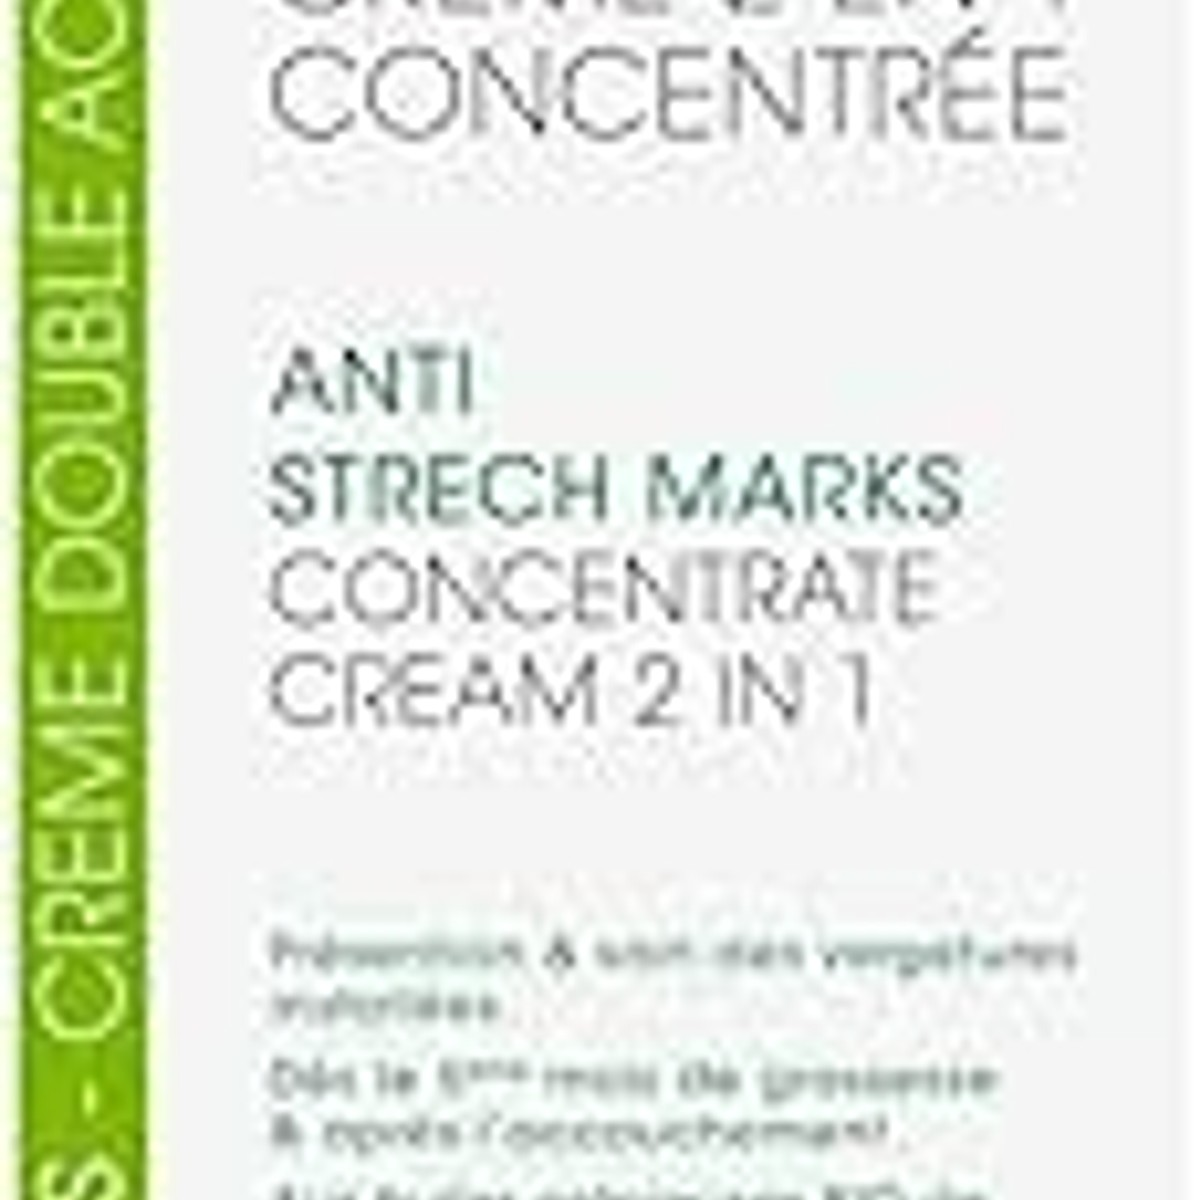
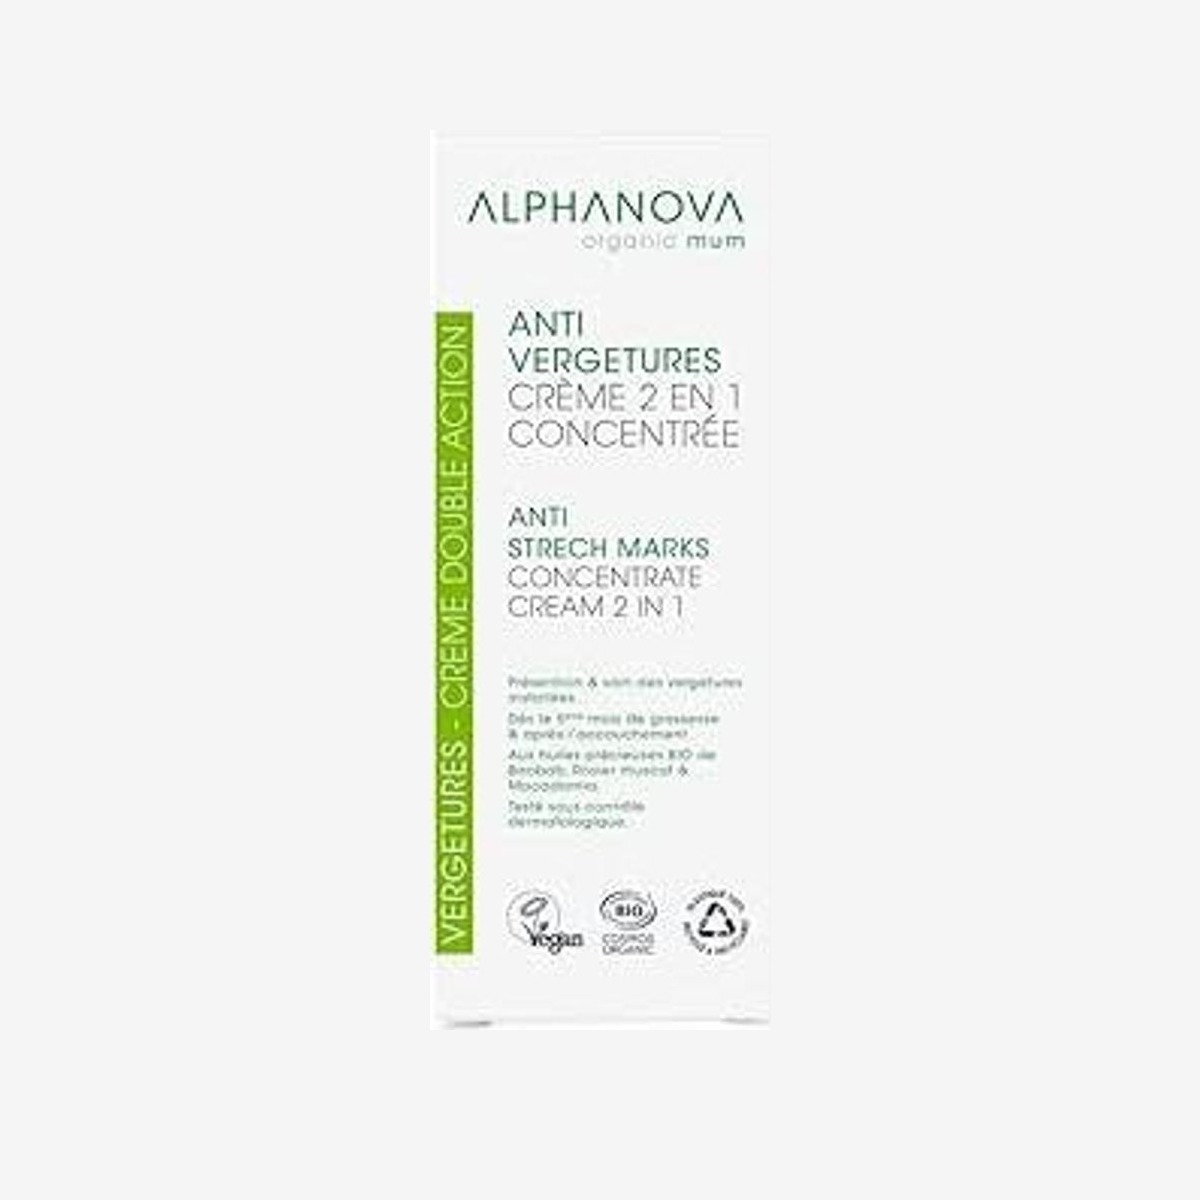
improve product image auto crop v3

diff --git a/scripts/add-product.js b/scripts/add-product.js
@@ -54,7 +54,7 @@ function guessCategory(name = "") {
 
   if (/(wallet|bag|watch|fashion|shirt|shoe|hoodie|sneaker|jacket)/.test(n)) return "Fashion";
   if (/(earbud|headphone|keyboard|charger|phone|tech|usb|powerbank|wireless|portable)/.test(n)) return "Tech";
-  if (/(serum|skin|beauty|cream|hair|makeup|cosmetic|skincare)/.test(n)) return "Beauty";
+  if (/(serum|skin|beauty|cream|hair|makeup|cosmetic|skincare|gel|cleanser|lotion)/.test(n)) return "Beauty";
   if (/(fitness|gym|band|roller|sport|abs|yoga|muscle)/.test(n)) return "Fitness";
   if (/(home|kitchen|decor|lamp|light|desk|chair|organizer)/.test(n)) return "Home";
   if (/(cat|dog|pet|animal|arbre a chat|arbre à chat|litter|hamster)/.test(n)) return "Home";
@@ -148,7 +148,6 @@ async function ensureGoodImageUrl(imageUrl, pageUrl) {
   if (!candidate || isSuspiciousImageUrl(candidate)) {
     console.log("\n⚠ Scraped image looks suspicious or unusable.");
     console.log("Scraped image URL:", candidate || "(empty)");
-
     candidate = (await ask("Paste a better image URL manually: ")).trim();
   }
 
@@ -160,6 +159,108 @@ async function ensureGoodImageUrl(imageUrl, pageUrl) {
     console.warn("Invalid image URL after manual fallback.");
     return "";
   }
+}
+
+async function buildPremiumSquareImage(inputBuffer, outputPath) {
+  const meta = await sharp(inputBuffer).metadata();
+  const width = meta.width || 0;
+  const height = meta.height || 0;
+
+  if (!width || !height) {
+    throw new Error("Unable to read image dimensions.");
+  }
+
+  const ratio = width / height;
+  const isPortrait = ratio < 0.8;
+  const isLandscape = ratio > 1.25;
+
+  let trimmedBuffer = inputBuffer;
+  try {
+    trimmedBuffer = await sharp(inputBuffer).trim().toBuffer();
+  } catch {
+    trimmedBuffer = inputBuffer;
+  }
+
+  const trimmedMeta = await sharp(trimmedBuffer).metadata();
+  const tWidth = trimmedMeta.width || width;
+  const tHeight = trimmedMeta.height || height;
+  const tRatio = tWidth / tHeight;
+
+  const likelyPackshot = tRatio < 0.8 || isPortrait;
+
+  const CANVAS = 1200;
+  const background = { r: 245, g: 245, b: 245, alpha: 1 };
+
+  let resizedBuffer;
+  let resizedMeta;
+
+  if (likelyPackshot) {
+    resizedBuffer = await sharp(trimmedBuffer)
+      .resize({
+        width: 900,
+        height: 900,
+        fit: "inside",
+        withoutEnlargement: false,
+      })
+      .toBuffer();
+
+    resizedMeta = await sharp(resizedBuffer).metadata();
+  } else if (isLandscape) {
+    resizedBuffer = await sharp(inputBuffer)
+      .resize({
+        width: 1040,
+        height: 1040,
+        fit: "inside",
+        position: "attention",
+        withoutEnlargement: false,
+      })
+      .toBuffer();
+
+    resizedMeta = await sharp(resizedBuffer).metadata();
+  } else {
+    resizedBuffer = await sharp(trimmedBuffer)
+      .resize({
+        width: 980,
+        height: 980,
+        fit: "inside",
+        position: "center",
+        withoutEnlargement: false,
+      })
+      .toBuffer();
+
+    resizedMeta = await sharp(resizedBuffer).metadata();
+  }
+
+  const finalWidth = resizedMeta.width || 900;
+  const finalHeight = resizedMeta.height || 900;
+
+  const left = Math.round((CANVAS - finalWidth) / 2);
+
+  let top = Math.round((CANVAS - finalHeight) / 2);
+
+  if (likelyPackshot) {
+    top = Math.round((CANVAS - finalHeight) / 2) - 20;
+  }
+
+  if (top < 0) top = 0;
+
+  await sharp({
+    create: {
+      width: CANVAS,
+      height: CANVAS,
+      channels: 4,
+      background,
+    },
+  })
+    .composite([
+      {
+        input: resizedBuffer,
+        left,
+        top,
+      },
+    ])
+    .jpeg({ quality: 92 })
+    .toFile(outputPath);
 }
 
 async function downloadAndCropImage(imageUrl, id, pageUrl) {
@@ -192,13 +293,7 @@ async function downloadAndCropImage(imageUrl, id, pageUrl) {
 
     const inputBuffer = Buffer.from(response.data);
 
-    await sharp(inputBuffer)
-      .resize(1200, 1200, {
-        fit: "cover",
-        position: "center",
-      })
-      .jpeg({ quality: 90 })
-      .toFile(outputPath);
+    await buildPremiumSquareImage(inputBuffer, outputPath);
 
     return `/products/${outputFilename}`;
   } catch (error) {
@@ -283,7 +378,7 @@ async function main() {
     const tags = guessTags(name, price);
     const commission_percentage = getCommissionPercentage(price);
 
-    console.log("\n🖼 Downloading and cropping image...");
+    console.log("\n🖼 Downloading and formatting image...");
     const localImagePath = await downloadAndCropImage(imageUrl, id, productUrl);
 
     const product = {
